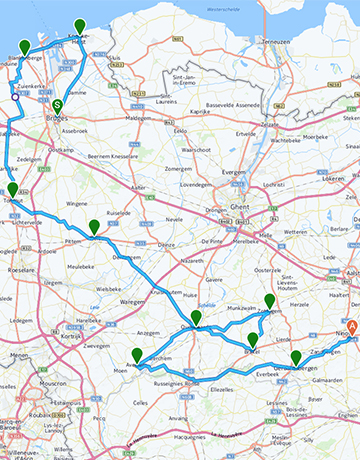
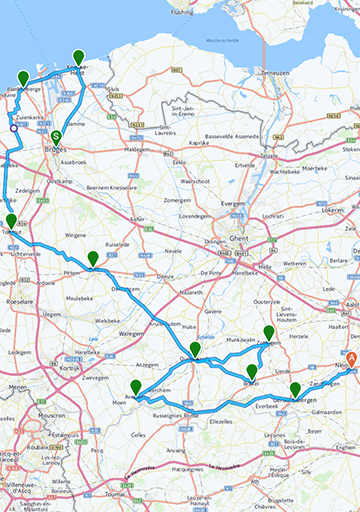
aanpassingen voor mobiel
afbeeldingen parcours aangepast
renners section aangepast

diff --git a/RVV/public/stylesheets/RvV.css b/RVV/public/stylesheets/RvV.css
@@ -235,11 +235,11 @@ input[type="image"] {
     background-color: white;
 }
 
-/*@media only screen and (max-device-width: 480px) {
+@media only screen and (max-device-width: 480px) {
    body{
        height:100%;
    }
-   #Renners,#spel,#Startpagina img[alt="homeBackground"]{
+   #spel,#Startpagina img[alt="homeBackground"]{
        display:none;
    }
     nav ul li {
@@ -277,7 +277,7 @@ input[type="image"] {
         width: 100px;
         height: 100px;
         cursor: pointer;
[2 lines of base64/hex data omitted]
         background-size: contain;
     }
     #Startpagina {
@@ -334,10 +334,48 @@ input[type="image"] {
         font-size:2em;
     }
     .selected {
-    padding:12px 0 0 0;
-    background-color:none;
+        padding:12px 0 0 0;
+        background-color:none;
+    }
+    #Renners{
+        padding:0;
+        margin-top:0;
+        width:100%;
+    }
+        #Renners div {
+            width:100%;
+            float: none;
+        }
+        #Renners h1 {    
+           bottom:5%; 
+        }
+        #Renners h1 span { 
+           font-size:2em;
+           padding: 30px; 
+        }
+    #Renners div div{
+        width:100%;
+        left:-100%;
+        visibility:hidden;
+        padding:15% 5% 5% 5%;
+    }
+    #Renners div h2 {
+        font-size:3em;
+    }
+    #Renners div span{
+        font-size:2em;
+    }
+    #div1 p{
+        font-size:1.8em;
+        width:100%;
+    }
+    img[alt="arrow_openinfo_indication"]{
+        position:absolute;
+        width:8%;
+        top:40%;
+        margin-left:2%;
+    }
 }
-}*/
    
 
 

diff --git a/RVV/views/index.html b/RVV/views/index.html
@@ -5,11 +5,11 @@
     <meta charset="utf-8" />
     <title>RVV - vroeger en nu</title>
     <script src="//ajax.googleapis.com/ajax/libs/jquery/1.8.3/jquery.min.js"></script>
-    <!--<script>
+    <script>
         if (screen.width <= 800) {
             $(location).attr('href', '/mobiel');
         }        
-    </script>-->
+    </script>
     <link href='http://fonts.googleapis.com/css?family=Hammersmith+One' rel='stylesheet' type='text/css'>
     <link href="stylesheets/bootstrap.min.css" rel="stylesheet" type="text/css" />
     <link href="stylesheets/normalize.css" rel="stylesheet" type="text/css" />
@@ -69,14 +69,15 @@
     </section>
 
     <section id="Renners">
+        sss
         <div>
            
             <img id="foto1" src="images/Flandriens/<%= flandriens[0].img %>" alt="<%= flandriens[0].naam %>" class="afbeelding_renners" />
             <h1><span id="span1"><%= flandriens[0].naam %></span></h1>
             <div id="div1">
                 <h2><%= flandriens[0].naam %></h2>
+                <span><%= flandriens[0].carriere %></span><br /><br />
                 <p><%= flandriens[0].beschrijving %></p>
-                <span><%= flandriens[0].carriere %></span>
             </div>
         </div>
         <div>
@@ -84,8 +85,8 @@
             <h1><span id="span2"><%= flandriens[1].naam %></span></h1>
             <div id ="div2">
                 <h2 id="h2"><%= flandriens[1].naam %></h2>
+                <span><%= flandriens[1].carriere %></span><br /><br />
                 <p><%= flandriens[1].beschrijving %></p>
-                <span><%= flandriens[1].carriere %></span>
             </div>
         </div>
         <div >
@@ -93,8 +94,8 @@
             <h1><span id="span3"><%= flandriens[2].naam %></span></h1>
             <div id="div3">
                 <h2><%= flandriens[2].naam %></h2>
+                <span><%= flandriens[2].carriere %></span><br /><br />
                 <p><%= flandriens[2].beschrijving %></p>
-                <span><%= flandriens[2].carriere %></span>
             </div>
         </div>
         <input type="hidden" id="flandriens" value="<%= JSON.stringify(flandriens) %>">       
@@ -118,7 +119,7 @@
     <!--<script src="http://localhost:8000/socket.io/socket.io.js"></script>  -->  
     
     
-    <script src="http://localhost:1338/socket.io/socket.io.js"></script>
+    <script src="http://178.116.189.17:1338/socket.io/socket.io.js"></script>
 
   
 

diff --git a/RVV/public/scripts/Flandriens_Mobiel.js b/RVV/public/scripts/Flandriens_Mobiel.js
@@ -1,1 +1,89 @@
-
+$(document).ready(function () {
+    
+    VeranderFoto();
+    
+    
+    $('#Renners').live('click', function (e) {
+        ShowInfo(e.target.id);
+    });
+    $('img[alt="arrow_openinfo_indication"]').click(function () {
+        ShowInfo('foto1');
+    });
+    $("#span1").click(function () { 
+        ShowInfo('foto1');
+    });
+    $('#div1').click(function () {
+        HideInfo();
+    });
+});
+
+
+
+var i = 1;
+var myTimeOut;
+var modus = false;
+function VeranderFoto() {
+    var img = $("#foto1");
+    var imgArrow = $('img[alt="arrow_openinfo_indication"]');
+    var span = $("#span1");
+    var div = $("#div1");
+    var dir = "/images/Flandriens/";
+    
+    
+    
+    var flandrien = $.parseJSON($('#flandriens').val());
+    var random = Math.floor(Math.random() * (13 - 0) + 0);
+    var src1 = $("#foto1").attr('src');
+    while (src1 == dir + flandrien[random].img) {
+        random = Math.floor(Math.random() * (13 - 0) + 0);
+    }
+    
+    div.children('h2').text(flandrien[random].naam);
+    div.children('p').text(flandrien[random].beschrijving);
+    div.children('span').text("Carrière: " + flandrien[random].carriere);
+    
+    
+    img.fadeOut(800, function () {
+        
+        img.attr("src", dir + flandrien[random].img);
+        
+        img.fadeIn(800);
+    });
+    span.fadeOut(800, function () {
+        span.text(flandrien[random].naam);
+        span.fadeIn(800);
+    });
+    imgArrow.fadeOut(800, function () {
+        imgArrow.fadeIn(800);
+    });
+    
+    if (i < 4)
+        i++;
+    else
+        i = 1;
+    myTimeOut = setTimeout("VeranderFoto()", 7000);
+}
+function ShowInfo(id) {
+    var div1 = $('#div1');
+    var positiondiv1 = div1.position();
+    //var positiondiv3 = div3.position();
+    if (id == "foto1") {
+        if (modus == false) {
+            
+            $('img[alt="arrow_openinfo_indication"]').fadeOut(200);
+            clearTimeout(myTimeOut);
+            $('#div1').css({ visibility: "visible" }).animate({ "left": "0" }, 500);
+            modus = true;
+        } 
+    }
+}
+function HideInfo() {
+    $('#div1').css({ visibility: "visible" }).animate({ "left": "-100%" }, 500);
+    modus = false;
+    myTimeOut = setTimeout("VeranderFoto()", 5000);
+    $('img[alt="arrow_openinfo_indication"]').fadeIn(800);
+}
+
+
+
+

diff --git a/RVV/views/mobiel.html b/RVV/views/mobiel.html
@@ -65,17 +65,17 @@
     </section>
 
     <section id="Renners">
-        <div>
-
+        <div>            
             <img id="foto1" src="images/Flandriens/<%= flandriens[0].img %>" alt="<%= flandriens[0].naam %>" class="afbeelding_renners" />
             <h1><span id="span1"><%= flandriens[0].naam %></span></h1>
             <div id="div1">
                 <h2><%= flandriens[0].naam %></h2>
+                <span><%= flandriens[0].carriere %></span><br /><br />
                 <p><%= flandriens[0].beschrijving %></p>
-                <span><%= flandriens[0].carriere %></span>
             </div>
+            <img src="images/arrow_right.png" alt="arrow_openinfo_indication" />
         </div>
-        <div>
+        <!--<div>
             <img id="foto2" src="images/Flandriens/<%= flandriens[1].img %>" alt="<%= flandriens[1].naam %>" class="afbeelding_renners" />
             <h1><span id="span2"><%= flandriens[1].naam %></span></h1>
             <div id="div2">
@@ -92,7 +92,7 @@
                 <p><%= flandriens[2].beschrijving %></p>
                 <span><%= flandriens[2].carriere %></span>
             </div>
-        </div>
+        </div>-->
         <input type="hidden" id="flandriens" value="<%= JSON.stringify(flandriens) %>">
     </section>
 

diff --git a/RVV/public/scripts/game.js b/RVV/public/scripts/game.js
@@ -13,11 +13,12 @@ btnTest.click(function () {
     //localPlayer.setX((localPlayer.getX() + 1));
     //socket.emit("move player", { x: localPlayer.getX(), id: localPlayer.id });
     
-    if (!opponent === undefined) {
-        alert(opponent.id);
+    if (opponent === undefined) {
+        
+        alert("please wait");
     }
     else {
-        alert("please wait");
+        alert(opponent.id);
     }
 
 
@@ -34,7 +35,7 @@ function init() {
     //ctx = canvas.getContext("2d");
     localPlayer = new Player(0);    
     // Start listening for events   
-     socket = io.connect("http://localhost:1338");  
+     socket = io.connect("http://178.116.189.17:1338");  
     //socket = io.connect();  
     setEventHandlers();
     remotePlayers = [];    
@@ -77,8 +78,10 @@ function onNewPlayerGlobal(data) {
     newPlayer.id = data.id;
     remotePlayers.push(newPlayer);
     console.log("New Global player connected: " + data.id);
-    if(opponent === undefined)
-        opponent = newPlayer
+    if (opponent === undefined) {
+        opponent = newPlayer;
+        console.log("heel lalala " + opponent.id);
+    }
    
 };
 
